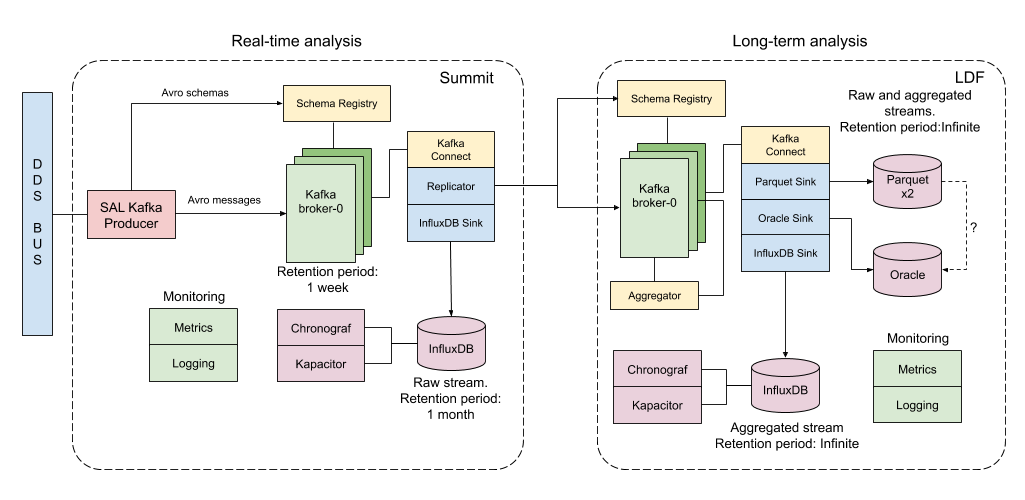
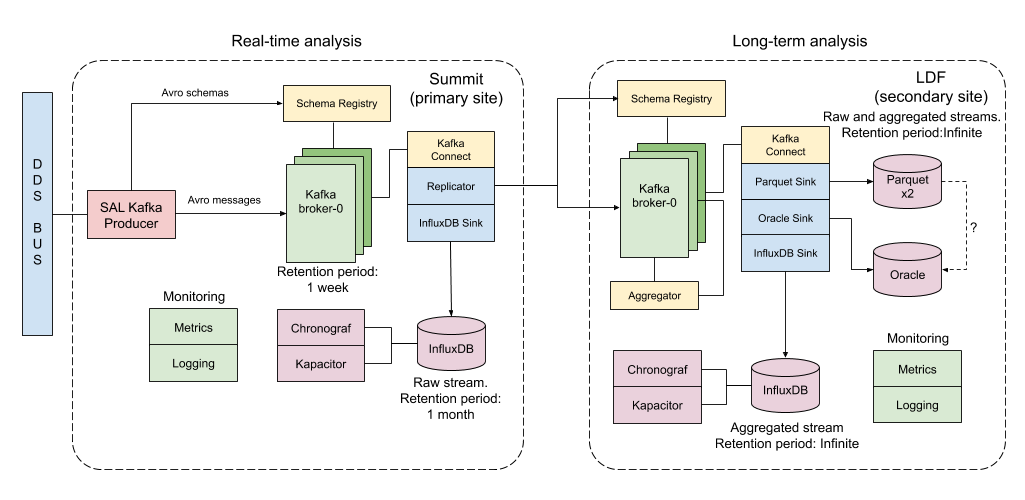
Add section on data replication
- Reviewed existing sections
- Add notion of primary and secondary sites which helps to clarify data
replication

diff --git a/index.rst b/index.rst
@@ -54,53 +54,62 @@ Introduction
 ============
 :dmtn:`082` :cite:`DMTN-082` presents a proposal to enable real-time analysis of the EFD data in the LSST Science Platform (LSP). :sqr:`029` :cite:`SQR-029` describes a prototype implementation of the EFD based on the `Confluent Kafka Platform`_  and the `InfluxData stack`_ and reports results of live tests with the LSST T&S `Service Abstraction Layer`_ (SAL) including latency characterization and performance evaluation with high-frequency telemetry. :sqr:`031` :cite:`SQR-031` describes the EFD Kubernetes-based deployment using Kubes (k3s), a lightweight Kubernetes, that allowed us to exercise the deployment and operation of the EFD at the Auxiliary Telescope (AT) test stand in Tucson and at the Summit in Chile while we implement the final on-premise deployment platform.
 
-In this technote, we'll detail the EFD operations based on what we've learned so far operating the EFD for the AT activities. We'll discuss the EFD data flow from the Summit to the LSST Data Facility (LDF), data retention policies, data formats and storage options for both real-time and long-term analyses of the EFD data in the LSP.
-
-EFD data flow
-=============
-
-This section describes new components of the EFD architecture, the SAL Kafka producer, the Kafka Connect manager, new Kafka connectors that enable data replication from the Summit to the LDF, and the Aggregator to downsample the data stream for long-term storage at the LDF.
+In this technote, we describe new components added to the EFD architecture, data replication from the Summit to the LSST Data Facility (LDF), data storage options for long-term analyses of the EFD data in the LSP, and the EFD data retention policy.
 
 
 .. figure:: /_static/efd_data_flow.png
    :name: EFD data flow
    :target: _static/efd_data_flow.png
 
-   EFD components and data flow from the Summit to the LDF.
+   EFD components at the Summit and LDF.
+
 
 The SAL Kafka producer
-----------------------
+======================
 
-The `SAL Kafka`_ producer is the service that forwards DDS messages from one or more SAL components to the Kafka brokers. Its addition was essential to the EFD architecture decoupling the EFD from the SAL XML schemas and using Avro schemas as the interface between the DDS middleware and Kafka. For each DDS topic, `SAL Kafka`_ introspects the OpenSplice IDL, creates the Avro schema and upload it to the Kafka Schema registry dynamically. The Kafka brokers cache the Avro serialized messages, and the Kafka connectors use the same Avro schemas to deserialize and write them to the different destinations.
+The `SAL Kafka`_ producer runs at the Summit and forward DDS messages from one or more SAL components to the Kafka brokers.  For each DDS topic, SAL Kafka introspects the OpenSplice IDL, creates the Avro schema and upload it to the Kafka Schema registry dynamically. The Kafka brokers cache the Avro serialized messages, and consumers use the Avro schemas created by SAL Kafka to deserialize the messages and write them to the different destinations.
 
+SAL Kafka was an important addition to the EFD architecture, it decoupled the EFD from the SAL XML schemas and introduced Avro as the interface between the DDS middleware and Kafka.
 
 The Kafka Connect manager
--------------------------
+=========================
 
-Another addition to the EFD architecture was the `Kafka Connect manager`_. The Kafka Connect manager is the component responsible for managing the Kafka Connect REST interface, it simplifies the connector creation and automatically updates the connector configuration every time the `SAL Kafka`_ producer creates a new topic in Kafka.
-
-Data replication
-----------------
+Another addition to the EFD architecture was the `Kafka Connect manager`_. The Kafka Connect manager is the component responsible for managing the Kafka Connect REST interface. It is used to deploy the different connectors in the EFD and can automatically update the connector configuration when new topics are created in the Kafka broker.
 
 
-Data aggregation
-----------------
+Data Replication
+================
+
+The EFD uses Kafka to replicate data from the Summit (primary site) to the LDF (secondary site). The `Confluent Replicator`_ connector is the component responsible for that. In the EFD setup, the Replicator connector runs in one direction copying data from the primary site to the secondary site.
+
+New topics in the Kafka brokers at the Summit are automatically detected and replicated to the Kafka brokers at the LDF. As throughput increases, the Replicator automatically scales to accommodate the increased load. The Replicator also synchronizes the Schema registry across the two sites, which further protects the EFD against data loss.
+
+Note that in this setup we have an InfluxDB consumer at the Summit that reads data just from the primary site, and the Aggregator, InfluxDB, Oracle and Parquet consumers at the LDF that read data just from the secondary site. There is no failover mechanism for a consumer in the primary (secondary) site to read data from the secondary (primary) site. Similarly, the SAL Kafka producer writes data to just the primary site.
+
+In summary, the data replication enables long-term storage of the EFD data at the LDF and also provides a live backup of the EFD data in the Summit instance (see :ref:`retention-policy`).
 
 
-Data formats
-------------
+Long-term storage options at the LDF
+====================================
 
+.. Using multiple connectors at the LFD to write the EFD data to Parquet, Oracle and InfluxDB also provide a backup for the raw and aggregated streams.
+
+The Aggregator
+--------------
+
+.. _retention-policy:
 
 EFD data retention policy
 =========================
 
 The EFD data retention policy defines the period in which the data is retained in each component of the EFD. It also provides guidelines for sizing the hardware to store and query the data.
 
-At the Summit, we configure the Kafka brokers with the default retention period of one week. It means that if the data cannot be written to InfluxDB or replicated to the LDF, they are still available on the Kafka brokers for this period before getting discarded. We configure InfluxDB with a retention period of one month. Data older than one month do not seem useful for analysis at the Summit.
+Both Kafka clusters at the Summit and the LDF use the default retention period of one week for the brokers.
 
-At LDF, we also configure the Kafka brokers with the default retention period of one week. The retention period for InfluxDB, Oracle, and Parquet files is infinite, which means it preserves the data for the lifetime of the experiment.
+At the Summit, InfluxDB retention period is one month, data older than one month do not seem useful for real-time analysis.
 
-The replication of the EFD data to the LFD provides a live backup of the Summit instance. In the same time, the replication of the EFD data to Parquet files provides a backup of both the raw and aggregated streams.
+At LDF, the retention period for InfluxDB, Oracle, and Parquet files is infinite, which means it preserves the data for the lifetime of the experiment.
+
 
 
 References
@@ -117,6 +126,7 @@ References
 .. _Service Abstraction Layer: https://docushare.lsstcorp.org/docushare/dsweb/Get/Document-21527
 .. _SAL Kafka: https://ts-salkafka.lsst.io/
 .. _Kafka Connect manager: https://kafka-connect-manager.lsst.io/
+.. _Confluent Replicator:
 .. _InfluxData stack: https://docs.influxdata.com/influxdb/v1.7/
 .. _Chronograf: https://docs.influxdata.com/chronograf/v1.7/
 .. _Kapacitor: https://docs.influxdata.com/kapacitor/v1.5/
